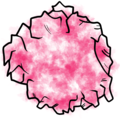
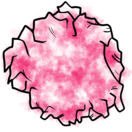
Fixed turn incremented by 2. Added statsBar. Resized assets.

diff --git a/src/main/java/org/example/view/GamePanel.java b/src/main/java/org/example/view/GamePanel.java
@@ -21,6 +21,9 @@ public class GamePanel extends JPanel {
 
     private JButton playPauseButton;
 
+    private JPanel statsPanel = new JPanel();
+    private JLabel statsLabel = new JLabel();
+
     private boolean gameEnded = false;
 
     public void switchGameTimer() {
@@ -46,42 +49,50 @@ public class GamePanel extends JPanel {
         updateGamePanel();
     }
 
+
     private JPanel createBanner() {
-        bannerPanel = new JPanel();
-        bannerPanel.setBackground(Color.GRAY); // Imposta il colore di sfondo del banner
-
-        // Layout per il banner
-        bannerPanel.setLayout(new BorderLayout());
-
-        // Etichetta per il nome del giocatore 1 a sinistra
-        JLabel player1Label = new JLabel(Settings.PLAYER_1_NAME);
-        player1Label.setHorizontalAlignment(SwingConstants.LEFT);
-        bannerPanel.add(player1Label, BorderLayout.WEST);
-
-        // Etichetta per il nome del giocatore 2 a destra
-        JLabel player2Label = new JLabel(Settings.PLAYER_2_NAME);
-        player2Label.setHorizontalAlignment(SwingConstants.RIGHT);
-        bannerPanel.add(player2Label, BorderLayout.EAST);
-
-        // Aggiungi un pulsante per andare al turno successivo al centro del banner
-        playPauseButton = new JButton("Play");
-        playPauseButton.addActionListener(new ActionListener() {
+        bannerPanel = new JPanel(new BorderLayout()){
             @Override
-            public void actionPerformed(ActionEvent e) {
-                // Crea un nuovo timer per muovere gradualmente i proiettili
-                //startProjectilesAnimation();
-                if(gameTimer.isRunning()) {
-                    gameTimer.stop();
-                    playPauseButton.setText("Play");
-                } else {
-                    gameTimer.start();
-                    playPauseButton.setText("Stop");
-                }
+            protected void paintComponent(Graphics g) {
+                super.paintComponent(g);
+                updateStatsLabel();
             }
-        });
+        };
 
-        bannerPanel.add(playPauseButton, BorderLayout.CENTER);
+        addPlayerPanel(Settings.PLAYER_1_NAME, new Color(120, 215, 217), BorderLayout.WEST);
+        addPlayerPanel(Settings.PLAYER_2_NAME, new Color(248, 151, 185), BorderLayout.EAST);
+
+        statsPanel = new JPanel(new BorderLayout());
+        statsPanel.setBackground(Color.LIGHT_GRAY);
+        statsLabel = new JLabel();
+        statsLabel.setFont(FontLoader.loadFont("assets/fonts/Chalkduster/Chalkduster.ttf", 35));
+        statsLabel.setHorizontalAlignment(SwingConstants.CENTER);
+        statsPanel.add(statsLabel, BorderLayout.CENTER);
+        bannerPanel.add(statsPanel, BorderLayout.CENTER);
+
         return bannerPanel;
+    }
+
+    private void addPlayerPanel(String playerName, Color color, String position) {
+        JPanel playerPanel = new JPanel(new BorderLayout());
+        playerPanel.setBackground(color);
+        JLabel playerLabel = new JLabel(playerName, SwingConstants.CENTER);
+        playerLabel.setFont(FontLoader.loadFont("assets/fonts/Chalkduster/Chalkduster.ttf", 30));
+        playerLabel.setForeground(Color.WHITE);
+        playerPanel.add(playerLabel, BorderLayout.CENTER);
+        playerPanel.setPreferredSize(new Dimension(480, 60));
+        bannerPanel.add(playerPanel, position);
+    }
+
+    private void updateStatsLabel() {
+        int cyborgs1 = Game.getGame().getTotCyborgs(1);
+        int cyborgs2 = Game.getGame().getTotCyborgs(-1);
+
+        Color color = (cyborgs1 > cyborgs2) ? new Color(120,215,217) :
+                (cyborgs1 < cyborgs2) ? new Color(248,151,185) : Color.LIGHT_GRAY;
+        statsPanel.setBackground(color);
+
+        statsLabel.setText(cyborgs1 + " - " + Game.getGame().getTurn() + " - " + cyborgs2);
     }
 
     private JPanel createMatrix() {

diff --git a/src/main/java/org/example/model/Game.java b/src/main/java/org/example/model/Game.java
@@ -112,13 +112,12 @@ public class Game {
                         System.out.println("Mosse non valide player 2: " + tempMovesPlayer2);
                     }
 
+                    // UPDATE WORLD
+                    updateFactoryCyborgsSent(moves);
+                    transitTroops.addAll(moves);
+                    world.addProjectiles(moves);
+                    turn++;
                 }
-
-                // UPDATE WORLD
-                updateFactoryCyborgsSent(moves);
-                transitTroops.addAll(moves);
-                world.addProjectiles(moves);
-                turn++;
 
             } catch (ObjectNotValidException | IllegalAnnotationException e) {
                 e.printStackTrace();
@@ -390,6 +389,15 @@ public class Game {
 
     public String getWinner() {
         return winner;
+    }
+
+    public int getTotCyborgs(int player){
+        int cyborgs = 0;
+        for (Factory factory : world.getFactories()) {
+            if (factory.getPlayer() == player) cyborgs += factory.getCyborgs();
+        }
+        cyborgs += getCyborgsInMovement(player);
+        return cyborgs;
     }
 
     public int getCyborgsInMovement(int player){

diff --git a/src/main/java/org/example/view/MainWindow.java b/src/main/java/org/example/view/MainWindow.java
@@ -9,7 +9,7 @@ import java.awt.*;
 public class MainWindow {
     public static void launch() {
         JFrame f = new JFrame();
-        f.setSize(Settings.WINDOW_SIZE * 2 + 15, Settings.WINDOW_SIZE + 70); // 22 is the height of the title bar
+        f.setSize(Settings.WINDOW_SIZE * 2 - 50, Settings.WINDOW_SIZE + 70); // 22 is the height of the title bar
         // Set location of JFrame
         Dimension dim = Toolkit.getDefaultToolkit().getScreenSize();
         f.setLocation(dim.width/2 - f.getSize().width/2, dim.height/2 - f.getSize().height/2);

diff --git a/src/main/java/org/example/config/Settings.java b/src/main/java/org/example/config/Settings.java
@@ -9,7 +9,7 @@ public class Settings {
     public final static int WORLD_SIZE_X = 10;
     public final static int WORLD_SIZE_Y = 5;
 
-    public final static int BLOCK_SIZE = 140;
+    public final static int BLOCK_SIZE = 132;
 
     public final static int MIN_FACTORIES = 7;
     public final static int MAX_FACTORIES = 15;
